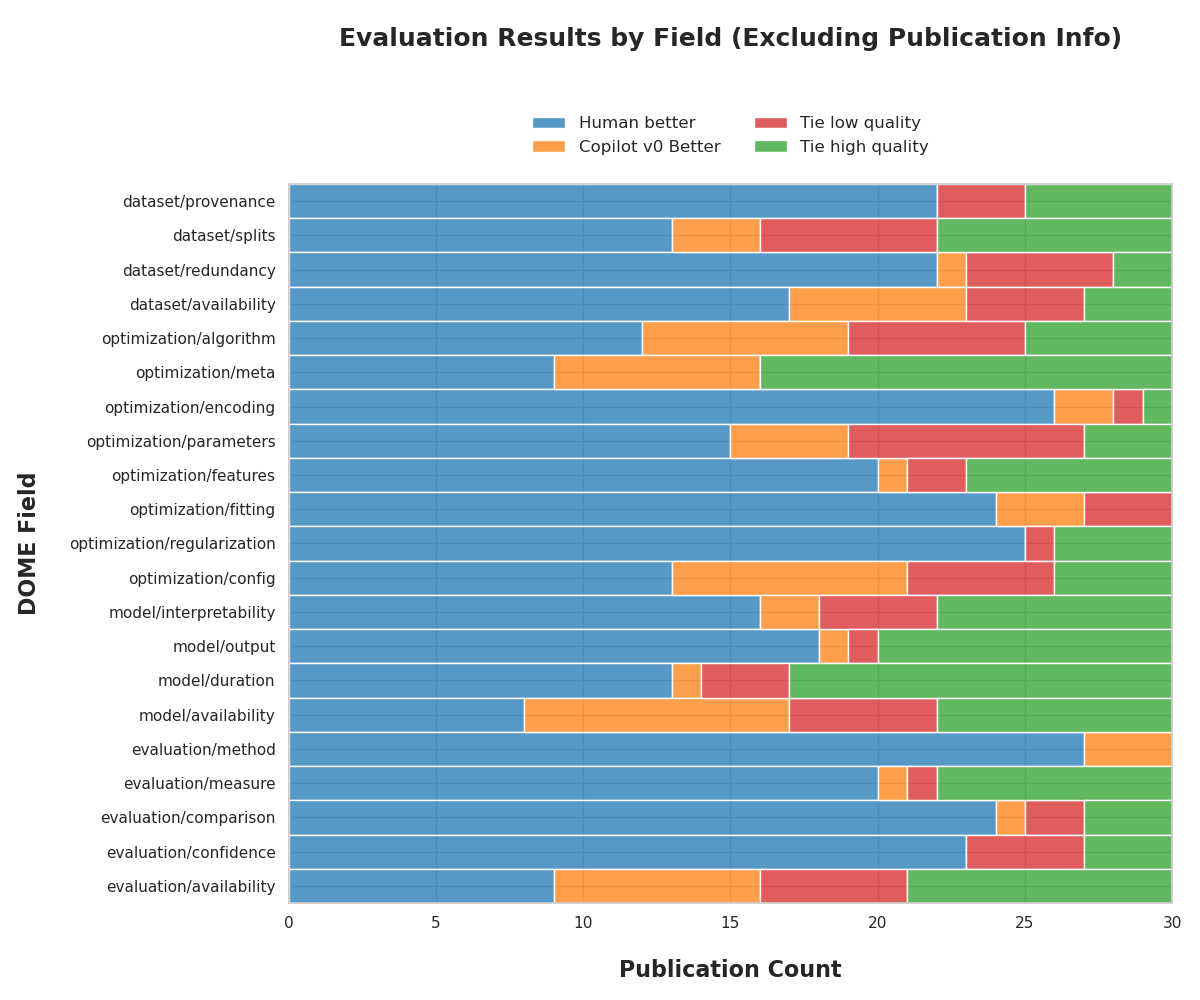
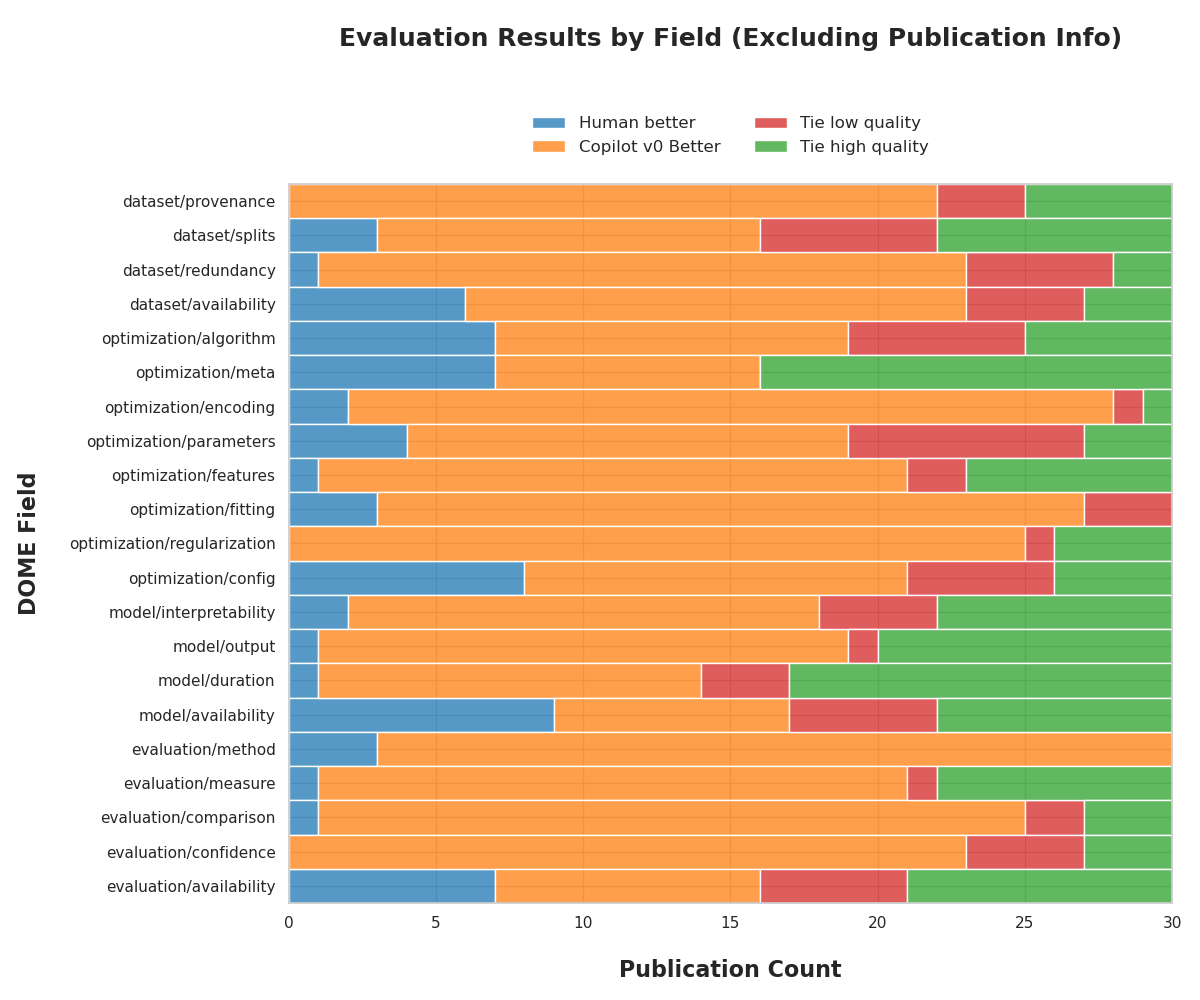
UPdates the journal image for supplementayr on n=30 msubset 01 and 03

Changed region(s): [[0.2158, 0.186, 0.925, 0.899]]

diff --git a/Human_30_Copilot_vs_Human_Evaluations_Interface/generate_evaluation_analysis_plots.py b/Human_30_Copilot_vs_Human_Evaluations_Interface/generate_evaluation_analysis_plots.py
@@ -79,14 +79,42 @@ def load_evaluation_results():
 
 def plot_overall_rank_distribution(df):
     plt.figure(figsize=(10, 6))
-    ax = sns.countplot(data=df, x='Rank', order=['A_Better', 'B_Better', 'Tie_High', 'Tie_Low'], palette='viridis')
-    plt.title('Overall Evaluation Results: Human (A) vs Copilot (B)')
-    plt.ylabel('Count')
-
-    # Add labels
+    
+    # Map labels (matching graph 03 key labels)
+    rank_mapping = {
+        'A_Better': 'Human better',
+        'B_Better': 'Copilot v0 Better',
+        'Tie_High': 'Tie high quality',
+        'Tie_Low': 'Tie low quality'
+    }
+    df_mapped = df.copy()
+    df_mapped['Rank'] = df_mapped['Rank'].map(lambda x: rank_mapping.get(x, x))
+    
+    # Same colour scheme as graph 03
+    custom_palette = {
+        'Tie high quality': '#2ca02c',
+        'Tie low quality': '#d62728',
+        'Copilot v0 Better': '#ff7f0e',
+        'Human better': '#1f77b4'
+    }
+    
+    bar_order = ['Copilot v0 Better', 'Human better', 'Tie high quality', 'Tie low quality']
+    
+    ax = sns.countplot(
+        data=df_mapped, 
+        x='Rank', 
+        order=bar_order, 
+        palette=custom_palette
+    )
+    
+    plt.xlabel('Evaluation Result', fontsize=16, fontweight='bold', labelpad=20)
+    plt.ylabel('Count', fontsize=16, fontweight='bold', labelpad=20)
+    
+    # Add bar labels
     for container in ax.containers:
-        ax.bar_label(container)
+        ax.bar_label(container, fontsize=12)
 
+    plt.tight_layout()
     filepath = os.path.join(PLOTS_DIR, '01_Overall_Rank_Distribution.png')
     plt.savefig(filepath)
     plt.close()
@@ -116,8 +144,8 @@ def plot_performance_by_field(df):
     
     # Map the labels as requested
     rank_mapping = {
-        'A_Better': 'Copilot v0 Better',
-        'B_Better': 'Human better',
+        'A_Better': 'Human better',
+        'B_Better': 'Copilot v0 Better',
         'Tie_High': 'Tie high quality',
         'Tie_Low': 'Tie low quality'
     }
